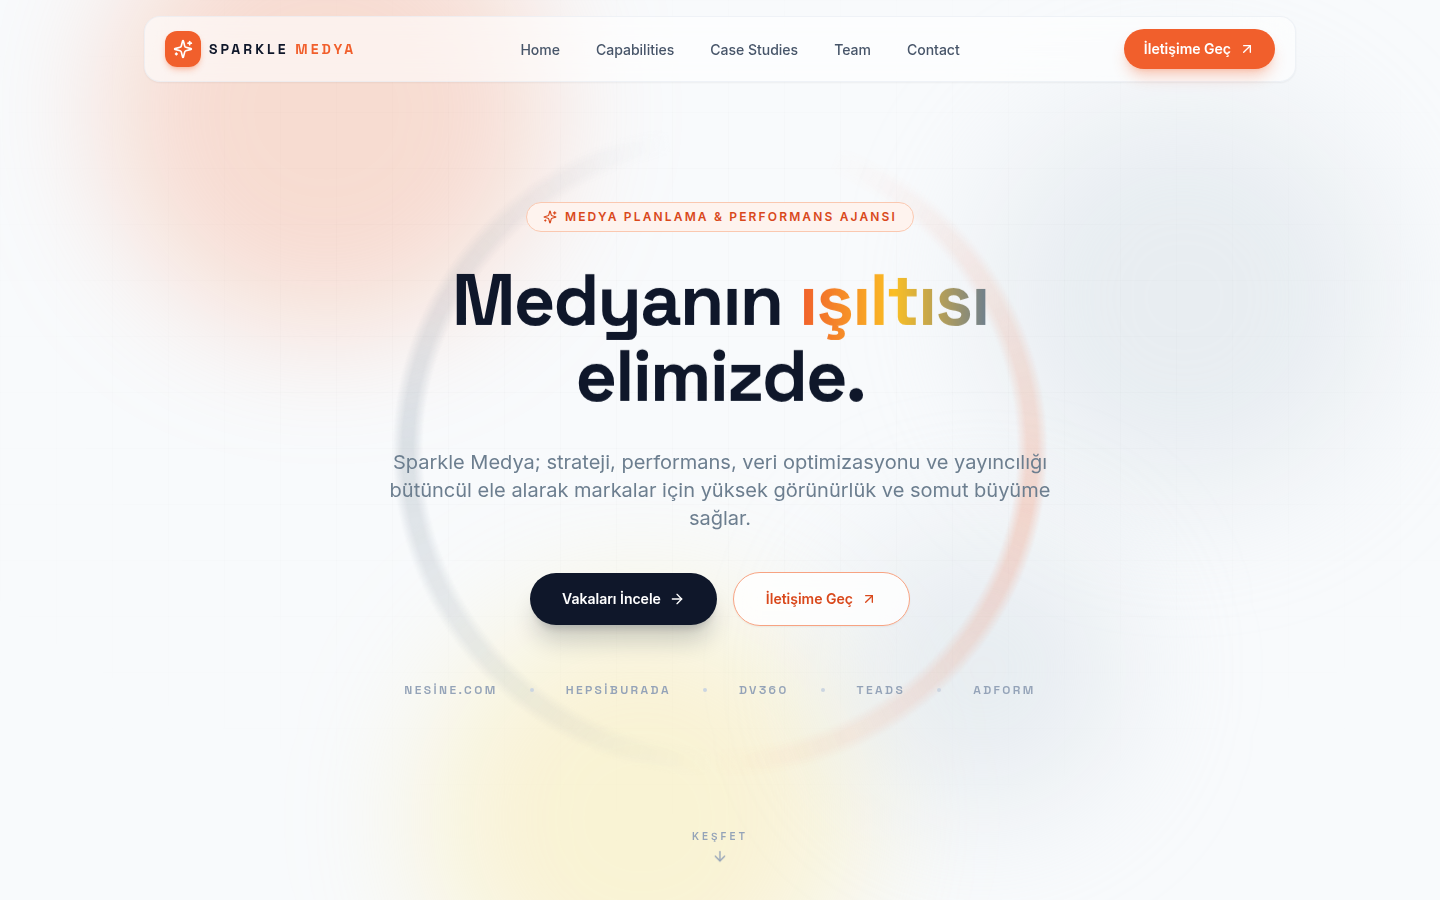
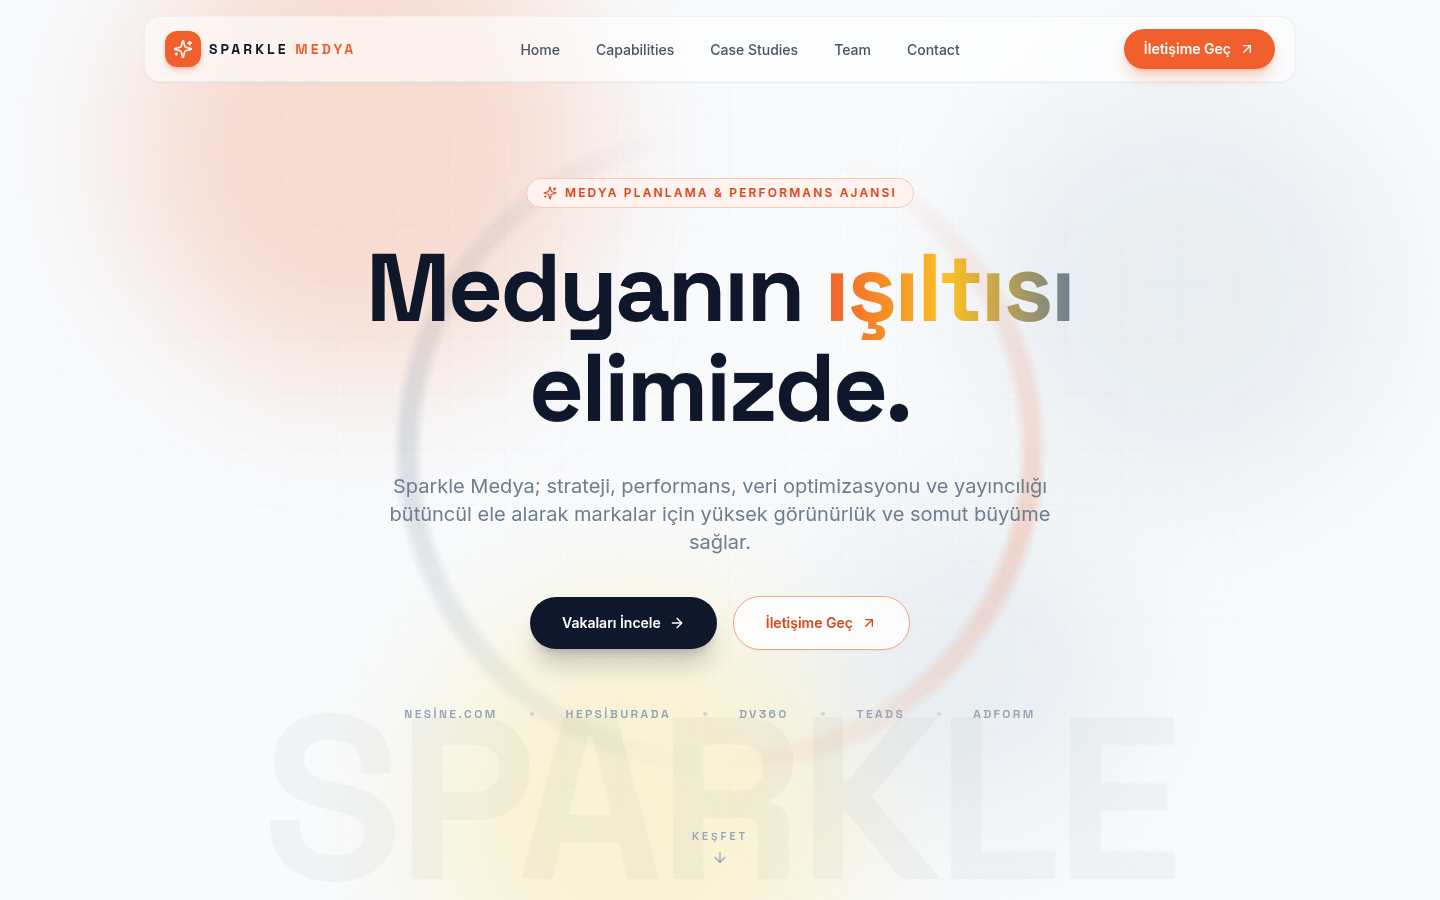
Add files via upload

diff --git a/src/components/CaseStudies.jsx b/src/components/CaseStudies.jsx
@@ -5,31 +5,52 @@ import { SectionBadge } from "./ui.jsx";
 import CaseArt from "./CaseArt.jsx";
 import { CASE_STUDIES, SECTION_BG } from "../data/content.jsx";
 
+/**
+ * Case Studies — horizontal storytelling slider, sticky-scene edition.
+ *
+ * Layout fix:
+ *   - `relative h-[300vh]` parent defines the scroll runway.
+ *   - `sticky top-0 h-screen flex items-center overflow-hidden` keeps the
+ *     scene on screen with NO ScrollTrigger pinning — no pin-spacer, so the
+ *     jump/flicker when scrolling back up is structurally impossible.
+ *   - The track's `x` is scrubbed against the parent's progress. The travel
+ *     distance is measured from the real track width (`scrollWidth -
+ *     innerWidth`) with `invalidateOnRefresh`, so any number of cards or a
+ *     window resize stays perfectly calibrated (a hardcoded -67% would drift).
+ *   - Cards animate with scrub-only micro-motion (scale/parallax, never
+ *     opacity cliffs), so reversing direction replays smoothly instead of
+ *     blinking. Cards sit at `z-10`; no clipping masks on the cards
+ *     themselves — only the sticky viewport clips.
+ */
+
 const CaseStudyCard = ({ study }) => (
   <article
-    className="case-card relative flex h-[58vh] min-h-[27rem] w-[85vw] max-w-3xl shrink-0 flex-col overflow-hidden rounded-3xl border border-slate-200/80 bg-white/80 p-8 shadow-lg backdrop-blur-md transition-shadow duration-500 hover:shadow-2xl sm:p-10"
+    className="case-card relative z-10 flex h-[58vh] min-h-[27rem] w-[85vw] max-w-3xl shrink-0 flex-col rounded-3xl border border-slate-200/80 bg-white/80 p-8 shadow-sm backdrop-blur-xl transition-all duration-500 hover:border-brand-500/30 hover:shadow-xl sm:p-10"
     aria-label={`${study.client} — ${study.label}`}
   >
+    {/* Soft brand wash — rounded to the card, no overflow clipping needed */}
     <div
       aria-hidden="true"
-      className={"pointer-events-none absolute inset-0 bg-gradient-to-br " + study.gradient}
+      className={
+        "pointer-events-none absolute inset-0 rounded-3xl bg-gradient-to-br " + study.gradient
+      }
     />
 
     {/* Abstract campaign artwork */}
     <CaseArt
       variant={study.art}
-      className="case-art pointer-events-none absolute -right-8 top-1/2 hidden h-72 w-72 -translate-y-1/2 opacity-90 sm:block lg:h-80 lg:w-80"
+      className="case-art pointer-events-none absolute right-0 top-1/2 hidden h-72 w-72 -translate-y-1/2 opacity-90 sm:block lg:h-80 lg:w-80"
     />
 
     {/* Oversized index number */}
     <span
       aria-hidden="true"
-      className="case-number pointer-events-none absolute -right-4 -top-8 select-none font-display text-[10rem] font-bold leading-none text-ink/[0.04]"
+      className="case-number pointer-events-none absolute right-4 top-2 select-none font-display text-[9rem] font-bold leading-none text-ink/[0.05]"
     >
       {study.number}
     </span>
 
-    <div className="relative flex h-full flex-col sm:max-w-[60%]">
+    <div className="relative z-10 flex h-full flex-col sm:max-w-[60%]">
       <div className="flex flex-wrap items-center gap-3">
         <span
           className={
@@ -50,10 +71,10 @@ const CaseStudyCard = ({ study }) => (
         ))}
       </div>
 
-      <h3 className="mt-6 font-display text-3xl font-bold tracking-tight text-ink sm:text-4xl">
+      <h3 className="mt-6 font-display text-4xl font-bold tracking-tight text-slate-900 sm:text-5xl">
         {study.client}
       </h3>
-      <p className="mt-4 max-w-xl text-base leading-relaxed text-body sm:text-lg">
+      <p className="mt-4 max-w-xl text-base leading-relaxed text-slate-500 sm:text-lg">
         {study.summary}
       </p>
 
@@ -62,8 +83,8 @@ const CaseStudyCard = ({ study }) => (
           const StatIcon = stat.icon;
           return (
             <div key={stat.label} className="flex flex-col">
-              <StatIcon className="mb-2 h-5 w-5 text-slate-400" aria-hidden="true" />
-              <span className="font-display text-2xl font-bold tracking-tight text-ink sm:text-3xl">
+              <StatIcon className="mb-2 h-5 w-5 text-brand-400" aria-hidden="true" />
+              <span className="font-display text-3xl font-bold tracking-tight text-slate-900">
                 {stat.value}
               </span>
               <span className="mt-1 text-xs font-semibold uppercase tracking-wider text-slate-400">
@@ -77,32 +98,30 @@ const CaseStudyCard = ({ study }) => (
   </article>
 );
 
-/** Pinned horizontal scroll scene with progress bar. */
 const CaseStudies = () => {
-  const sectionRef = useRef(null);
+  const wrapRef = useRef(null);
   const trackRef = useRef(null);
   const progressRef = useRef(null);
   const reduced = useReducedMotion();
 
   useLayoutEffect(() => {
-    const section = sectionRef.current;
+    const wrap = wrapRef.current;
     const track = trackRef.current;
-    if (!section || !track) return undefined;
+    if (!wrap || !track) return undefined;
     if (prefersReducedMotion()) return undefined;
 
     const ctx = gsap.context(() => {
       const getScrollAmount = () => Math.max(0, track.scrollWidth - window.innerWidth);
 
+      /* Horizontal drive: parent runway progress → track x. */
       const horizontalTween = gsap.to(track, {
         x: () => -getScrollAmount(),
         ease: "none",
         scrollTrigger: {
-          trigger: section,
+          trigger: wrap,
           start: "top top",
-          end: () => `+=${getScrollAmount()}`,
-          pin: true,
+          end: "bottom bottom",
           scrub: 1,
-          anticipatePin: 1,
           invalidateOnRefresh: true,
           onUpdate: (self) => {
             if (progressRef.current) {
@@ -112,27 +131,32 @@ const CaseStudies = () => {
         },
       });
 
+      /* Scrub-only micro-motion — fully reversible, no opacity cliffs. */
       gsap.utils.toArray(".case-card").forEach((card) => {
-        gsap.from(card, {
-          opacity: 0.35,
-          scale: 0.95,
-          duration: 0.8,
-          ease: "power2.out",
-          scrollTrigger: {
-            trigger: card,
-            containerAnimation: horizontalTween,
-            start: "left 95%",
-            toggleActions: "play none none reverse",
-          },
-        });
+        gsap.fromTo(
+          card,
+          { scale: 0.96, y: 16 },
+          {
+            scale: 1,
+            y: 0,
+            ease: "none",
+            scrollTrigger: {
+              trigger: card,
+              containerAnimation: horizontalTween,
+              start: "left 100%",
+              end: "left 55%",
+              scrub: true,
+            },
+          }
+        );
 
         const number = card.querySelector(".case-number");
         if (number) {
           gsap.fromTo(
             number,
-            { xPercent: 30 },
+            { xPercent: 24 },
             {
-              xPercent: -20,
+              xPercent: -12,
               ease: "none",
               scrollTrigger: {
                 trigger: card,
@@ -149,9 +173,9 @@ const CaseStudies = () => {
         if (art) {
           gsap.fromTo(
             art,
-            { xPercent: 12, rotate: 4 },
+            { xPercent: 10, rotate: 4 },
             {
-              xPercent: -6,
+              xPercent: -5,
               rotate: -2,
               ease: "none",
               scrollTrigger: {
@@ -166,16 +190,18 @@ const CaseStudies = () => {
         }
       });
 
+      /* Heading intro (one-shot entrance is fine outside the slider). */
       gsap.from(".cases-heading > *", {
         y: 32,
         opacity: 0,
         duration: 0.8,
         stagger: 0.1,
         ease: "power3.out",
-        scrollTrigger: { trigger: section, start: "top 70%" },
+        scrollTrigger: { trigger: wrap, start: "top 80%" },
       });
-    }, section);
+    }, wrap);
 
+    /* Recalibrate once fonts/images settle. */
     const refresh = () => ScrollTrigger.refresh();
     window.addEventListener("load", refresh);
 
@@ -188,16 +214,23 @@ const CaseStudies = () => {
   return (
     <section
       id="case-studies"
-      ref={sectionRef}
+      ref={wrapRef}
       data-bg={SECTION_BG.cases}
-      className="relative overflow-hidden"
+      className={"relative " + (reduced ? "" : "h-[300vh]")}
     >
-      <div className={"flex flex-col justify-center py-10 " + (reduced ? "" : "h-screen")}>
+      {/* Sticky scene — stays on screen while the runway scrolls beneath */}
+      <div
+        className={
+          reduced
+            ? "flex flex-col justify-center py-16"
+            : "sticky top-0 z-10 flex h-screen flex-col justify-center overflow-hidden"
+        }
+      >
         <div className="mx-auto w-full max-w-6xl px-4">
           <div className="cases-heading flex flex-col gap-4 sm:flex-row sm:items-end sm:justify-between">
             <div>
               <SectionBadge>Vaka Analizleri</SectionBadge>
-              <h2 className="mt-5 font-display text-4xl font-bold tracking-tight text-ink sm:text-5xl">
+              <h2 className="mt-5 font-display text-5xl font-bold tracking-tight text-slate-900 sm:text-6xl">
                 İşe yarayan işler.
               </h2>
               <div className="mt-6 h-1 w-44 overflow-hidden rounded-full bg-slate-200">
@@ -207,14 +240,14 @@ const CaseStudies = () => {
                 />
               </div>
             </div>
-            <p className="max-w-sm text-sm leading-relaxed text-body">
+            <p className="max-w-sm text-sm leading-relaxed text-slate-500">
               Kaydırmaya devam edin — ödüllü kampanyalarımız yatay olarak akıyor.
             </p>
           </div>
         </div>
 
-        {/* Horizontal track (falls back to native swipe when motion is reduced) */}
-        <div className={"mt-10 " + (reduced ? "overflow-x-auto pb-4" : "overflow-hidden")}>
+        {/* Horizontal track (native swipe when motion is reduced) */}
+        <div className={"mt-10 " + (reduced ? "overflow-x-auto pb-4" : "")}>
           <div
             ref={trackRef}
             className="flex w-max items-stretch gap-8 px-4 will-change-transform sm:px-[max(1rem,calc((100vw-72rem)/2))]"
@@ -222,10 +255,11 @@ const CaseStudies = () => {
             {CASE_STUDIES.map((study) => (
               <CaseStudyCard key={study.id} study={study} />
             ))}
+
             {/* End cap card */}
-            <div className="case-card flex h-[58vh] min-h-[27rem] w-[70vw] max-w-xl shrink-0 flex-col items-center justify-center rounded-3xl border border-dashed border-brand-300 bg-white/60 p-10 text-center backdrop-blur-md">
+            <div className="case-card relative z-10 flex h-[58vh] min-h-[27rem] w-[70vw] max-w-xl shrink-0 flex-col items-center justify-center rounded-3xl border border-dashed border-brand-300 bg-white/60 p-10 text-center backdrop-blur-xl">
               <Sparkles className="h-10 w-10 text-brand-500" aria-hidden="true" />
-              <h3 className="mt-6 font-display text-2xl font-bold text-ink sm:text-3xl">
+              <h3 className="mt-6 font-display text-2xl font-bold text-slate-900 sm:text-3xl">
                 Sıradaki başarı hikayesi sizinki olsun.
               </h3>
               <a

diff --git a/src/components/Hero.jsx b/src/components/Hero.jsx
@@ -62,6 +62,7 @@ const Hero = () => {
         .to(".hero-line-inner", { yPercent: -130, stagger: 0.08 }, 0)
         .to(".hero-soft", { y: -60, opacity: 0, stagger: 0.04 }, 0)
         .to(".hero-blob", { scale: 1.5, opacity: 0.35 }, 0)
+        .to(".hero-watermark", { y: 80, opacity: 0 }, 0)
         .to(".hero-scroll-hint", { opacity: 0 }, 0);
     }, sectionRef);
 
@@ -111,6 +112,11 @@ const Hero = () => {
               "radial-gradient(ellipse 70% 60% at 50% 40%, black 30%, transparent 100%)",
           }}
         />
+
+        {/* Architectural watermark */}
+        <span className="hero-watermark absolute bottom-[-1vw] left-1/2 -translate-x-1/2 select-none whitespace-nowrap font-display text-[16vw] font-bold leading-none tracking-tight text-ink/[0.03]">
+          SPARKLE
+        </span>
       </div>
 
       <div className="relative z-10 mx-auto flex max-w-4xl flex-col items-center text-center">
@@ -118,7 +124,7 @@ const Hero = () => {
           <SectionBadge>Medya Planlama &amp; Performans Ajansı</SectionBadge>
         </div>
 
-        <h1 className="mt-8 font-display text-5xl font-bold leading-[1.04] tracking-tight text-ink sm:text-6xl lg:text-7xl">
+        <h1 className="mt-8 font-display text-6xl font-bold leading-[0.98] tracking-[-0.03em] text-slate-900 sm:text-7xl lg:text-8xl">
           <span className="block overflow-hidden pb-1">
             <span className="hero-line-inner block will-change-transform">
               Medyanın{" "}
@@ -127,7 +133,7 @@ const Hero = () => {
                   ışıltısı
                 </span>
                 <Sparkles
-                  className="absolute -right-7 -top-3 h-7 w-7 text-brand-500"
+                  className="absolute -right-9 -top-4 h-8 w-8 text-brand-500"
                   aria-hidden="true"
                 />
               </span>

diff --git a/src/data/content.jsx b/src/data/content.jsx
@@ -34,7 +34,7 @@ export const SECTION_BG = {
   manifesto: "#FEF3EE",
   stats: "#FFFFFF",
   capabilities: "#EFF3F6",
-  cases: "#FDEFE6",
+  cases: "#F8FAFC",
   process: "#FFFFFF",
   team: "#F8FAFC",
   contact: "#FEF3EE",
